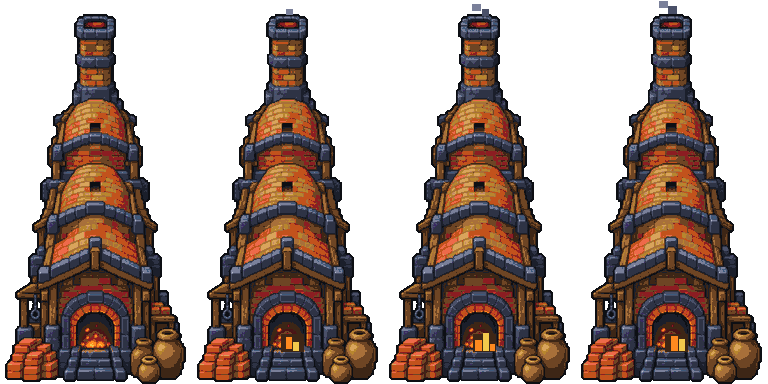
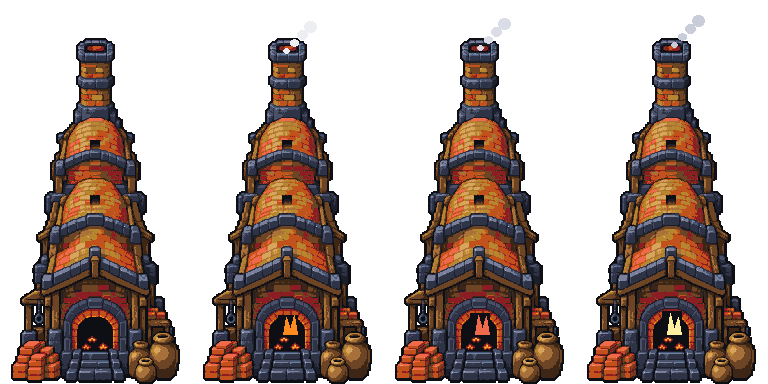
Art review: 64 px batch 1 (Buildings-64-002) in game - Workbench, Kiln, Paper Mill statics accepted, Sky-Bridge Shrine @64 validated (waits on Phase 2); Paper Mill loop + Shrine glow rejected, Kiln + Workbench loops repair (interim); Paper Mill pilot pair re-pinned; ART-SPEC 3.9.6 batch 1R (loops on

diff --git a/docs/art/ART-SPEC.md b/docs/art/ART-SPEC.md
@@ -1,4 +1,4 @@
-# Idle Grounds — Art Request / Art Bible (v6 — 64 px per cell for standing objects, pilot signed off 2026-10-24, rollout batch 1 requested, see §3.9.6; v5 — snowy Fishing, see §3.8; v4 — island requesters, Sky-Bridge Shrine, 4 new islands, see §3.7)
+# Idle Grounds — Art Request / Art Bible (v6 — 64 px per cell for standing objects, pilot signed off 2026-10-24, rollout batch 1 reviewed 2026-10-25, batch 1R (4 loops) requested, see §3.9.6; v5 — snowy Fishing, see §3.8; v4 — island requesters, Sky-Bridge Shrine, 4 new islands, see §3.7)
 
 Self-contained brief for the artist (human or AI image tool). Everything needed to produce, name, size and deliver the art is in this file. No other document is required.
 
@@ -654,22 +654,33 @@ Everything in §1 still applies (front 3/4 view, light from the upper left, colo
 | `bld_workbench@64.png` | 192×256 | 1 | in game as interim; redo in batch 1 (projection) |
 | `bld_workbench_working_192x256_4f@64.png` | 768×256 strip | 4 | interim; redo in batch 1 from the repaired static |
 
-**Batch 1 (P1, requested 2026-10-24): pilot repairs + B1 Sky-Bridge Shrine.** Category `buildings`, **one zip `incoming/buildings/Idle-Grounds-Buildings-64-002.zip`** with a short `NOTES.txt` and `SHA256SUMS`. All files at 64 (§3.9.3–3.9.5): exact canvases, palette P01–P40, binary alpha (4 alpha steps only for smoke, glow and qi cloud), 2-px outer outline, base on the bottom row, no baked shadow, loop frame 0 = the static pixel for pixel, new drawings (no 2× upscales). Evidence for the repairs: Drive `feedback/2026-10-22_pilot64_review.png`.
+**Batch 1 (P1, requested 2026-10-24, delivered as `Idle-Grounds-Buildings-64-002.zip`, reviewed in game 2026-10-25: statics accepted, loops in batch 1R below): pilot repairs + B1 Sky-Bridge Shrine.** Category `buildings`, **one zip `incoming/buildings/Idle-Grounds-Buildings-64-002.zip`** with a short `NOTES.txt` and `SHA256SUMS`. All files at 64 (§3.9.3–3.9.5): exact canvases, palette P01–P40, binary alpha (4 alpha steps only for smoke, glow and qi cloud), 2-px outer outline, base on the bottom row, no baked shadow, loop frame 0 = the static pixel for pixel, new drawings (no 2× upscales). Evidence for the repairs: Drive `feedback/2026-10-22_pilot64_review.png`.
 
 | File | Canvas | Frames | What to draw | Pri | Status |
 |---|---|---|---|---|---|
-| `bld_workbench@64.png` | 192×256 | 1 | **Repair (projection).** Observed: still turned ~13°: front-left foot ends at y=228, front-right foot at y=255; roof ridge at y=30 (x=50) vs y=62 (x=150); the right side face shows. Expected: **straight front** like `bld_paper_mill@64.png`: the four post feet and the bench base all on the bottom row (y=255), roof ridge level, no side face. Keep the red cloth awning (P18 with P17 folds), the bamboo posts, the saw, plane and plank stack. | P1 | requested |
-| `bld_workbench_working_192x256_4f@64.png` | 768×256 strip | 4 | **Redraw from the repaired static** (frame 0 = the new `bld_workbench@64.png` pixel for pixel). Frames 1–3: the saw moves along the plank, wood chips pop (2×2 clusters); nothing else changes. | P1 | requested |
-| `bld_kiln@64.png` | 192×384 | 1 | **Tweak (idle mouth).** Observed: the idle mouth shows a full fire (485 fire-colour px in the mouth). Expected: the idle mouth is **dark** (P01/P02 inside) with **3–6 small ember clusters** (2×2 or 2×3 px, P30 / P33). Everything else stays as accepted. | P1 | requested |
-| `bld_kiln_working_192x384_4f@64.png` | 768×384 strip | 4 | **Redo (smoke).** Frame 0 = the new idle `bld_kiln@64.png` pixel for pixel. Frames 1–3: the mouth fire flickers (P30 / P33 / P19 / P25), and a **rising smoke plume of 3–4 puffs** leaves the chimney inside the **top 64 px**: puffs grow and drift up (a little to the right) as they rise, using the **4 alpha steps** of §2.1 (most opaque at the chimney, faintest at the top). Observed before: the smoke was only a 42–135 px opaque blip on the chimney top. | P1 | requested |
-| `bld_paper_mill@64.png` | 192×256 | 1 | **Tweak (base).** Observed: 90 of 391 px in the bottom 4 rows are grass/fern (P13/P14). Expected: the bottom rows are the building's **own stone and wood** (plinth, posts, wheel trough), no grass and no painted shadow (§3.9.5 rule 7). Everything else stays as accepted. | P1 | requested |
-| `bld_paper_mill_working_192x256_4f@64.png` | 768×256 strip | 4 | **Redo (fuller loop).** Frame 0 = the new `bld_paper_mill@64.png` pixel for pixel. Observed before: only the wheel hub (x12–40) and the press screw changed. Expected in frames 1–3: **the whole water wheel turns** (spokes and paddles step round, the rim stays round), **the falling water moves** (spill lines and splash shift down each frame), the press descends, and **a paper sheet appears** on the drying rack (P40 / P07). The hut, rack and bamboo do not change. | P1 | requested |
-| `bld_sky_shrine@64.png` | 320×384 | 1 | **B1 Sky-Bridge Shrine at 64.** Keep the design of the validated 32 file `bld_sky_shrine.png` (2026-10-21): raised white-jade terrace with stairs facing south toward the viewer, round carved-jade moon-gate framed by cinnabar pillars and gold-trimmed double eaves, a slow swirl of pale qi cloud inside the gate, two stone lantern posts; 5×5 footprint (320×320) plus up to 64 px overhang above. Fix from the 32 file: it had **5 empty rows under the stairs**; at 64 the lowest stair step and the terrace base sit **on the bottom row (y=383)**, no empty rows. Front 3/4, no corner view; fill at least ~85 % of the width. Static = idle (qi swirl calm, lanterns unlit or softly lit). | P1 | requested |
-| `bld_sky_shrine_glow_320x384_4f@64.png` | 1280×384 strip | 4 | **Tribute being paid / ready.** Frame 0 = `bld_sky_shrine@64.png` pixel for pixel. Frames 1–3: the moon-gate swirl brightens cyan-gold (4 alpha steps for the qi cloud), the lantern flames flicker, the carved grooves pulse gold; terrace, pillars and roofs do not change. | P1 | requested |
+| `bld_workbench@64.png` | 192×256 | 1 | **Repair (projection).** Observed: still turned ~13°: front-left foot ends at y=228, front-right foot at y=255; roof ridge at y=30 (x=50) vs y=62 (x=150); the right side face shows. Expected: **straight front** like `bld_paper_mill@64.png`: the four post feet and the bench base all on the bottom row (y=255), roof ridge level, no side face. Keep the red cloth awning (P18 with P17 folds), the bamboo posts, the saw, plane and plank stack. | P1 | **accepted in game 2026-10-25** (straight front; Buildings-64-002) |
+| `bld_workbench_working_192x256_4f@64.png` | 768×256 strip | 4 | **Redraw from the repaired static** (frame 0 = the new `bld_workbench@64.png` pixel for pixel). Frames 1–3: the saw moves along the plank, wood chips pop (2×2 clusters); nothing else changes. | P1 | **repair** (2026-10-25: the saw does not move; interim in game; batch 1R below) |
+| `bld_kiln@64.png` | 192×384 | 1 | **Tweak (idle mouth).** Observed: the idle mouth shows a full fire (485 fire-colour px in the mouth). Expected: the idle mouth is **dark** (P01/P02 inside) with **3–6 small ember clusters** (2×2 or 2×3 px, P30 / P33). Everything else stays as accepted. | P1 | **accepted in game 2026-10-25** (dark mouth, 3 ember clusters; Buildings-64-002) |
+| `bld_kiln_working_192x384_4f@64.png` | 768×384 strip | 4 | **Redo (smoke).** Frame 0 = the new idle `bld_kiln@64.png` pixel for pixel. Frames 1–3: the mouth fire flickers (P30 / P33 / P19 / P25), and a **rising smoke plume of 3–4 puffs** leaves the chimney inside the **top 64 px**: puffs grow and drift up (a little to the right) as they rise, using the **4 alpha steps** of §2.1 (most opaque at the chimney, faintest at the top). Observed before: the smoke was only a 42–135 px opaque blip on the chimney top. | P1 | **repair** (2026-10-25: flat flame block, tiny smoke; interim in game; batch 1R below) |
+| `bld_paper_mill@64.png` | 192×256 | 1 | **Tweak (base).** Observed: 90 of 391 px in the bottom 4 rows are grass/fern (P13/P14). Expected: the bottom rows are the building's **own stone and wood** (plinth, posts, wheel trough), no grass and no painted shadow (§3.9.5 rule 7). Everything else stays as accepted. | P1 | **accepted in game 2026-10-25** (stone base, no grass); goes into the game together with its repaired loop (pilot pair stays pinned until then) |
+| `bld_paper_mill_working_192x256_4f@64.png` | 768×256 strip | 4 | **Redo (fuller loop).** Frame 0 = the new `bld_paper_mill@64.png` pixel for pixel. Observed before: only the wheel hub (x12–40) and the press screw changed. Expected in frames 1–3: **the whole water wheel turns** (spokes and paddles step round, the rim stays round), **the falling water moves** (spill lines and splash shift down each frame), the press descends, and **a paper sheet appears** on the drying rack (P40 / P07). The hut, rack and bamboo do not change. | P1 | **rejected** 2026-10-25 (rotated block pasted over the hut; batch 1R below) |
+| `bld_sky_shrine@64.png` | 320×384 | 1 | **B1 Sky-Bridge Shrine at 64.** Keep the design of the validated 32 file `bld_sky_shrine.png` (2026-10-21): raised white-jade terrace with stairs facing south toward the viewer, round carved-jade moon-gate framed by cinnabar pillars and gold-trimmed double eaves, a slow swirl of pale qi cloud inside the gate, two stone lantern posts; 5×5 footprint (320×320) plus up to 64 px overhang above. Fix from the 32 file: it had **5 empty rows under the stairs**; at 64 the lowest stair step and the terrace base sit **on the bottom row (y=383)**, no empty rows. Front 3/4, no corner view; fill at least ~85 % of the width. Static = idle (qi swirl calm, lanterns unlit or softly lit). | P1 | **validated 2026-10-25** (file + test placement in game); in-game check waits on ADR 0007 Phase 2 |
+| `bld_sky_shrine_glow_320x384_4f@64.png` | 1280×384 strip | 4 | **Tribute being paid / ready.** Frame 0 = `bld_sky_shrine@64.png` pixel for pixel. Frames 1–3: the moon-gate swirl brightens cyan-gold (4 alpha steps for the qi cloud), the lantern flames flicker, the carved grooves pulse gold; terrace, pillars and roofs do not change. | P1 | **rejected** 2026-10-25 (ring on the roof, line on the stairs; batch 1R below) |
 
 **Our check on delivery (in-game art reviewer):** file checks (canvas, palette, alpha, frame 0 = static, not an upscale, noise at or under ~10 %), then in game beside 32-px buildings at every zoom step (15 / 20 / 30 / 60 / 120 cells), loops at 8 fps. The Shrine is checked on the north edge of the Center once its gameplay exists (ADR 0007 Phase 2); until then on a test placement.
 
-**Batch 2 — E: the 7 P1 Requester NPC idle strips (next; requested after batch 1 is accepted, please do not start yet).** Category `creatures`, one zip `incoming/creatures/Idle-Grounds-Creatures-64-001.zip`. Canvas 64×96 per frame (strip 256×96), 4 frames at 6 fps, bottom-centre pivot, 3/4 front facing the viewer, 2-px P01/P02 outer outline, 1-px inner lines, eyes at least 2×2 px, skin P35 / P36. The 2026-10-21 repair notes apply: **feet fixed on the bottom row (y=95) in every frame**; the idle is **not** the whole sprite moving up and down: **animate only the named part** (§3.7), everything else stays pixel for pixel. Portraits stay 64×64 UI art (their repairs continue separately).
+**Batch 1R (P1, requested 2026-10-25): the four loops of batch 1 again.** Reviewed in game 2026-10-25 (Delivery log): the four statics are good, the four loops are not. Category `buildings`, **one zip `incoming/buildings/Idle-Grounds-Buildings-64-003.zip`** with `NOTES.txt` and `SHA256SUMS`, **only these 4 loops** (do not redraw or resend the statics: we keep the statics of `Idle-Grounds-Buildings-64-002.zip`). Frame 0 of each loop = its 64-002 static pixel for pixel (SHA-256 of the static given per row). Frames 1–3 change **only the named moving parts**, redrawn on the pixel grid (no rotated or pasted image blocks), read-at-a-glance motion in **2×2 clusters or larger** (1-px lines vanish at the 60-cell zoom), loop closes from frame 3 back to frame 0. Evidence: Drive `feedback/2026-10-25_buildings64_002_loops_REJECTED_frames.png` (frames, enlarged) and `feedback/2026-10-25_buildings64_002_review.png` (in game).
+
+| File | Canvas | Frames | Observed in 64-002 → what to draw | Pri | Status |
+|---|---|---|---|---|---|
+| `bld_paper_mill_working_192x256_4f@64.png` | 768×256 strip | 4 | Frame 0 = `bld_paper_mill@64.png` of 64-002 (SHA-256 `21130be9…f0bccb010`). **Observed:** frames 1–3 change 4,233 / 5,372 / 4,228 px inside x13–149, y92–221: a hard-edged rectangle holding a **rotated copy of the roof thatch, wheel, bamboo leaves and water is pasted over the left half of the hut** (frame 2: a square block at about x0–68, y92–152 on top of the roof), plus a dotted cyan vertical line through the press. **Expected:** hut, roof, bamboo, rack and stone base identical to frame 0 in every frame. Only these move: (a) the **water wheel turns in place**: spokes and paddles redrawn at 3 more rotation steps (for an 8-spoke wheel 0°, 11°, 22°, 33°, so frame 3 → 0 continues the turn), the rim stays round and in the same place; (b) the **falling water**: spill lines and the splash at the bottom shift down about 4 px per frame (wrapping); (c) the **press block** moves down 2–4 px in frames 1–2 and back up in frame 3; (d) a **paper sheet** (P40 / P07, at least 4×6 px) appears on the drying rack in frames 2–3. | P1 | requested |
+| `bld_kiln_working_192x384_4f@64.png` | 768×384 strip | 4 | Frame 0 = `bld_kiln@64.png` of 64-002 (SHA-256 `2a45e30d…1c6be6617`). **Observed:** the fire is **one flat single-colour shape** (170–191 px) with the same silhouette in frames 1–3, only recoloured P30 → P19 → P25, with a flat-cut top floating above the embers; the smoke is 3 flat P06 discs (296 semi-transparent px per frame at alpha 64 / 128 / 192, y15–49): in game at the 30-cell zoom it reads as two grey dots. **Expected:** (a) **flames rise from the ember bed**: 3–5 tongues whose tips move 2–4 px up and down and sway 1–2 px left/right every frame, layered core P25 / P24 → mid P30 / P33 → edge P19 / P17; the 3 ember clusters brighten with the flames; arch, bricks and steps unchanged; (b) **smoke plume**: 3–4 puffs that **grow** as they rise (about 6×6 → 10×10 → 14×12 → 18×14 px) and move up 6–10 px and 2–4 px right per frame, so the top puff leaves the canvas while a new one forms on the chimney; alpha 75 % near the chimney → 50 % → 25 % at the top (§2.1 steps 191 / 128 / 64), lumpy cloud outline (not perfect circles), all inside the top 64 px. | P1 | requested |
+| `bld_workbench_working_192x256_4f@64.png` | 768×256 strip | 4 | Frame 0 = `bld_workbench@64.png` of 64-002 (SHA-256 `2ecac09f…b75fde9720`). **Observed:** frames change only 49–52 px, all in x74–123, y170–180: a **1-px white stepped line** on the back plank that moves 4 px right; the **saw never moves**; no wood chips. **Expected:** the saw slides along the plank, 6–8 px per frame (rest → forward → back → forward-short), a small cut notch shows in the plank, and 2–4 **wood chips (2×2 px, P23 / P40)** pop up and fall near the cut; everything else unchanged. | P1 | requested |
+| `bld_sky_shrine_glow_320x384_4f@64.png` | 1280×384 strip | 4 | Frame 0 = `bld_sky_shrine@64.png` of 64-002 (SHA-256 `c29bb8dd…bdeaf60e`). **Observed:** frames 1–3 add a **semi-transparent ring about 70×80 px on rows 132–210 that sits over the lower roof eave and the top of the gate, not inside the moon-gate**; a **2-px gold line across the stairs** between the lanterns (rows 294–295, 115 px each); two 2×4 orange blocks on balustrade posts as flames. Its alpha steps are 80 / 150 / 220, not the §2.1 steps 64 / 128 / 191. **Expected:** (a) **inside the moon-gate opening only**, the existing qi swirl brightens from cyan to gold over frames 1–3 (alpha 64 / 128 / 191 / 255 for the cloud); (b) the **two stone lanterns at the foot of the stairs** light up: flames 2×2 to 4×4 px flickering P24 / P25 / P30; (c) the carved grooves on the gate ring pulse gold (P24 / P34). Nothing is drawn over roofs, pillars, balustrades or stairs. | P1 | requested |
+
+Non-blocking notes on the accepted statics (no action now; fix at the next pass of these keys): `bld_kiln@64.png` touches the bottom row only at x139–152 (the rest of the base ends on y380–382; same as the pilot); `bld_workbench@64.png` posts end on y255 but the bench body on y253; `bld_sky_shrine@64.png` 1-px noise 12.7 % (target about 10 %).
+
+**Batch 2 — E: the 7 P1 Requester NPC idle strips (next; requested after batch 1R is accepted, please do not start yet).** Category `creatures`, one zip `incoming/creatures/Idle-Grounds-Creatures-64-001.zip`. Canvas 64×96 per frame (strip 256×96), 4 frames at 6 fps, bottom-centre pivot, 3/4 front facing the viewer, 2-px P01/P02 outer outline, 1-px inner lines, eyes at least 2×2 px, skin P35 / P36. The 2026-10-21 repair notes apply: **feet fixed on the bottom row (y=95) in every frame**; the idle is **not** the whole sprite moving up and down: **animate only the named part** (§3.7), everything else stays pixel for pixel. Portraits stay 64×64 UI art (their repairs continue separately).
 
 | File | Canvas | Frames | What to draw / animate | Pri | Status |
 |---|---|---|---|---|---|
@@ -1236,6 +1247,7 @@ Review process: files in `incoming` are imported into Unity, checked in-game, an
 | v5 — snowy Fishing | 2026-10-21 | New §3.8 (owner pick `vp_fishing`): Fishing becomes a snowy northern Island on purpose. Snow ground fill, macro, decor, blob, curved and straight south walls with icicles, side walls, snow cornice lip and edge profile; cold open water with an ice shelf along the pond shore, floes and an ice-fishing hole; snowy trees, snow props, a warm spring in the snow, an icicle underside and a snowfall overlay. Fishing palette in §1.3 changed to snow + ice + water; the old Fishing ground/water rows of §3.1 are superseded. |
 | v6 — 64 px standing objects | 2026-10-22 | §3.9 finalised for owner pick `art_density` = obj64: buildings, nodes, fixtures, trees, standing props, NPCs and creatures are drawn at **64 px per cell** on doubled canvases (§3.9.3), tagged `@64` and imported at PPU 64 (same world size); ground, coast, sky, items, icons, UI and FX stay 32. New rules at 64: 2-px outer outline, 2×2 clusters for read-at-a-glance detail, no 1-px checker dither, loops never redraw the static frame, no baked contact shadow; palette extension P33–P40 for 64 art. Building audit of 2026-10-21 kept (8 REF, 10 CLEAN, 8 REDRAW). **Request A (pilot, P1):** Paper Mill, Kiln, Workbench + working loops at 64. Every other standing-object request (incl. the open 32-px repairs of NPC idles, 4 buildings and 19 loops) is **on hold** until the owner signs the pilot off; then B buildings, C nodes + fixtures, D trees + props, E NPCs, F creatures. Zoom-step table for 64 art measured in game (§3.9.7). |
 | v6.1 — 64 px rollout | 2026-10-24 | Owner signed off the 64 px pilot (`pilot64_signoff` = rollout). §3.9.6 rewritten: the hold on standing objects is lifted; pilot A marked done. **Batch 1 requested (P1, one zip `Idle-Grounds-Buildings-64-002.zip`):** the pilot repairs exactly as logged 2026-10-22 (Workbench straight-front projection + loop redrawn from the repaired still; Kiln idle mouth dark with 3–6 ember clusters + rising 3–4 puff plume in 4 alpha steps in the top 64 px; Paper Mill bottom rows own stone/wood + loop turning the whole wheel, moving falling water, a paper sheet appearing) and B1 `bld_sky_shrine@64.png` 320×384 + `bld_sky_shrine_glow_320x384_4f@64.png` (validated 32 design kept; base on the bottom row, no empty rows). **Batch 2 (next, after batch 1 is accepted):** E, the 7 P1 Requester NPC idle strips `npc_<id>_idle_64x96_4f@64.png` with the 2026-10-21 repair notes (feet on the bottom row, animate only the named part, Jiang redrawn), then He, Lei, Yao, Mo. Later: B2, B3, B4, C, D, F. |
+| v6.2 — batch 1 review | 2026-10-25 | Rollout batch 1 (`Idle-Grounds-Buildings-64-002.zip`) reviewed in game: Workbench, Kiln and Paper Mill statics accepted, Sky-Bridge Shrine static validated (in-game check waits on ADR 0007 Phase 2); the 4 loops need a redo. **Batch 1R requested (P1, `Idle-Grounds-Buildings-64-003.zip`, loops only):** Paper Mill wheel/water/press/sheet loop without pasted blocks, Kiln layered flame tongues + growing smoke puffs, Workbench moving saw + 2×2 chips, Shrine glow inside the moon-gate + lantern flames. Batch 2 (7 P1 NPC idles at 64) follows when 1R is accepted. |
 | v2 — irregular islands | 2026-10-04 | New §3.0: islands are hand-painted irregular shapes (never squares); the coast is a visual margin 8–30 cells (bold lobes, bays, islets) around the square 93×93 playable area. Ground tilesets become 47-tile blob sets per biome (`island_<biome>_ground_blob_32x32_47f.png`; the 19-tile strip stays as a minimum); cliff rim must cover diagonals, corners and end caps; underside decorations must combine under any coastline. |
 
 ### Delivery log
@@ -1300,4 +1312,5 @@ Intake: `node tools/art-intake/pull.js` (Drive `incoming/<category>/` -> `Assets
 | 2026-10-21 | §3.7 set + coast repairs: Islands-038 (sidewall v3 ×7), -039 (Fishing macro v4), -040 (`cliffwall_round` ×7), -041…050 (Lotus / Thunder / Ravine / Tribulation tilesets, decor, overlays); Buildings-013 (Shrine + glow), -014…019 (19 static), -020…024 (19 working loops); Creatures-006…009 (11 NPC idles, Azure Wolf, pen beast); UI-021…024; Items-009; Nodes-007 (1); Fixtures-005; FX-005/006 | `incoming/*/…` (37 zips, 165 art files) | **All 37 zips inspected** (PNG RGBA, sizes, frame counts, 100 % palette, alpha checked by script; contact sheets reviewed). Buildings-018 correctly replaces the wrong-size `bld_lightning_rod` / `bld_thunder_forge` of -017. Pulled and integrated in the background copy (Integrate Incoming Art: 0 changes on re-run). The `SOURCE-STUDY-*.png` files in Islands-042 (9 MB) are not game art; we skip them, please leave them out of future zips. Evidence: Drive `feedback/2026-10-21_*.png`. <br>**ACCEPTED in Play:** <br>• **Islands-038 `island_<biome>_sidewall` + `_variants` ×7 (v3):** the 18 px face now shows in game as a lit rock side on the W/E coasts (we widened the game's side face from 11 to 18 px to use it). `feedback/2026-10-21_sidewall_v3_ACCEPTED_ingame.png`. Optional polish later: the face is 4 flat vertical colour bands with short horizontal dashes; a little rock texture would help. <br>• **Islands-039 `island_fishing_macro` v4:** P05 / P07 patches in the right cool family; softened 40 % toward the fill in game like the other biomes, no visible repetition at far zoom. `feedback/2026-10-21_fishing_macro_v4_ACCEPTED_ingame.png`. (Fishing becomes snowy in §3.8, which replaces this file later.) <br>**REJECTED in Play: Islands-040 `island_<biome>_cliffwall_round_32x96_4f` ×7.** In game the curved south walls turn into flat horizontal colour stripes (1–3 px bands across the whole frame), with no rock form, no top-left light, no roots and a straight ruler-flat bottom edge; it is a clear step back from the pinned straight wall frames, so those stay. Fishing has a saturated P27 band, Celestial is flat white/violet bands. `feedback/2026-10-21_cliffwall_round_REJECTED_ingame.png`, `…_ingame_close.png`, `…_frames.png`. **Repair:** paint each frame like `island_<biome>_cliffwall_32x96_8f` frames 0–2 (stratified rock blocks lit from the top-left, darker vertical faces, roots and moss, ragged broken bottom fading over 16 px in 4 alpha steps), but keep the strata **horizontal and continuous across the frame edges** so any order tiles, and keep big vertical features (cracks, waterfalls) out. Strata bands must be at least 4–6 px tall with texture inside them, not 1-px lines. <br>**REJECTED on file review (not usable yet; the game has no Shrine / NPC / new Island code, so in-game checks wait for ADR 0007 Phase 2):** <br>• **FX-005 `fx_sky_path_h/v/corner/end`:** each piece is a flat 3-colour cyan capsule outline at 66 % alpha: no jade slabs, no gold rail posts, no shadow on the clouds. The h/v pieces have **rounded end caps on every 64 px segment**, so a path of several segments pinches at each joint (not seamless). `feedback/2026-10-21_sky_path_REJECTED_frames.png`. **Repair:** match `fx_sky_path_raise` (FX-006, which looks right): opaque jade slabs (P09/P10/P11/P12) with cyan glowing seams, small gold posts, a thin shadow below; straight cuts at both ends of h/v so they tile; the ripple loop must not move the slabs. <br>• **Creatures-006/007 `npc_<id>_idle_32x48_4f` ×11:** the idle is the **whole sprite shifted up and down by 1 px** (same pixel count every frame; nothing moves: no abacus beads, fishing line, hammer glow, lotus); in frames 0 and 3 the feet leave the bottom edge (lowest row 46 / 45 instead of 47). No 1 px ink outline. **Jiang, Lei, Mo and Yao** read as noise (scattered single pixels, no face, no clear silhouette): `feedback/2026-10-21_npc_lei_mo_REJECTED_zoom.png`. **Repair:** keep the designs of Lin, Kang, Tian, Qingyun, Ouyang, Xuan and He; redraw Jiang (straw hat + grass cape + rod clearly readable), Lei, Mo and Yao as clean pixel art. For all 11: 1 px P01 ink outline, feet fixed on row 47 in every frame, and animate only the named part (2–6 px change per frame) as listed in §3.7. <br>• **UI-023 portraits:** Lin, Jiang, Kang and Tian are small busts in the bottom half (head top at row 30–38, 16–20 % of the canvas); Mo and Yao are noisy like their sprites. **Repair:** all 11 framed the same way: head top at rows 4–8, shoulders reaching the bottom edge, face about 24–28 px wide, clean outline. He, Lei, Ouyang, Qingyun and Xuan are kept. `feedback/2026-10-21_npc_portraits_REVIEW.png`. <br>• **Buildings-020…024 working loops ×19:** every frame is a **different redraw of the whole building** (4,000–9,700 px change per frame; the bridge, rocks and roofs change shape), so it would boil in game. Our accepted loops change 16–25 px per frame. `feedback/2026-10-21_bld_working_REJECTED_boiling.png`. **Repair:** frame 0 = the accepted static sprite pixel for pixel; frames 1–3 change only the moving parts (koi, steam, sparks, glow). <br>• **Static buildings `bld_beast_pen`, `bld_tribulation_array`, `bld_immortal_furnace`, `bld_thunder_forge`:** drawn as **floating mini-islands** (rock underside, waterfalls, clouds and banners hanging below the footprint); `beast_pen` and `tribulation_array` are also in isometric (diamond) view. On an Island they would sit on the grass as a second floating island. `feedback/2026-10-21_bld_floating_base_REJECTED.png`. **Repair:** 3/4 front view like the other buildings, base flat on the ground at the bottom edge of the canvas, no rock underside, no clouds. <br>• **New biome tilesets (Islands-041…048), `lotus`/`thunder`/`ravine`/`tribulation`:** <br>  – `*_ground_blob_32x32_47f` ×4: every frame is a **full opaque square with a border frame**; they ignore the §3.0 blob silhouettes (transparent cut-outs, rounded corners) of the Center set. `feedback/2026-10-21_newbiome_blob_REJECTED_vs_center.png`. **Repair:** same silhouettes as `island_center_ground_blob` (use `blob_mask_reference.json`), only the colours change. <br>  – `*_ground_fill_32x32_3f` ×4 and `island_lotus_water_32x32_4f`: tiled 4×3 they show a **strong 32 px grid** and are very busy (Lotus: 4 hues in large blotches; Ravine: diagonal stripes; Tribulation frame 1 has black vertical bars and **frame 2 is entirely P01 black**; water frame 0 shows a checkerboard). `feedback/2026-10-21_newbiome_fill_water_REJECTED_tiled.png`. **Repair:** Center v2.1 recipe: one base colour, ≤ 8 % sparse detail, nothing aligned to the tile edge; check 4×4 tiled at 2× before delivery. <br>  – `*_cliffwall_32x96_8f` ×4: a flat brick grid with straight 1 px drip lines, all 8 frames nearly identical, flat top band, no ragged bottom or fade; far below the accepted cliff walls. `feedback/2026-10-21_newbiome_cliffwall_REJECTED.png`. **Repair:** paint like `island_center_cliffwall_32x96_8f` (v2) in the biome palette, §3.6 frame order. <br>  – `*_sidewall_32x32_4f` + `*_sidewall_variants_32x32_8f` ×4: same flat brick style. **Repair:** as Islands-038 (18 px face, grass column at the island side, outer edge cut diagonally on the end frames). <br>  – `*_macro_96x96_4f` ×4: these are **raised objects** (rock mounds, bone pits, fenced isometric platforms) instead of flat ground patches; Lotus frames are cut off by the canvas edge. **Repair:** flat organic decals ±1 palette step from the fill, dithered edges, nothing raised, nothing touching the canvas edge. `feedback/2026-10-21_newbiome_macro_sidewall_REVIEW.png`. <br>**Validated (files OK), imported, waiting on game code (ADR 0007 Phase 2):** `bld_sky_shrine` + `_glow` (fine; 5 empty rows under the stairs, we trim in code), `ui_request_marker`, `ui_request`, `ui_request_done`, `ui_utility`, `ui_shrine`, `ui_area/action_<lotus|thunder|ravine|tribulation>` ×8, portraits of He, Lei, Ouyang, Qingyun, Xuan, 15 static buildings (bamboo nursery, spirit snare, deep shaft, blast forge, koi pond, spirit paddy, elixir still, essence well, fire vent, star well, lotus pond, reed press, lotus distillery, lightning rod, soul refinery), `fix_peachtree`, 9 nodes (`node_lotuspad` pops from full bloom back to a bud at the loop seam; fine if intended as surfacing), 12 items, `enemy_wolf_idle/move/hit/die`, `npc_pen_beast_idle`, `fx_sky_path_raise`, flowers / scatter / spark / glowvine / runes for the 4 new biomes. None of these is in the game yet, so none is accepted yet. | Islands-038, -039 **accepted**; Islands-040 **rejected**; 76 files **rejected** (7 round walls + 69 listed above); 74 files **validated, waiting on Phase 2** |
 | 2026-10-22 | **NEW P1 — 64 px pilot (§3.9, owner pick `art_density` = obj64)** | — | **Requested:** `bld_paper_mill@64.png` (192×256), `bld_kiln@64.png` (192×384), `bld_workbench@64.png` (192×256) and their `_working_<W>x<H>_4f@64.png` loops, one zip `incoming/buildings/Idle-Grounds-Buildings-64-001.zip`. Read §3.9.3–3.9.6 first (sizes, `@64` names, 2-px outline, 2×2 clusters, palette P33–P40, no upscales). The game already imports `@64` files at PPU 64 and draws them at the right size (tested with a stand-in). **On hold until the owner signs the pilot off:** all other standing-object work, including the 2026-10-21 repairs of the NPC idle strips, the 4 floating-base buildings and the 19 working loops (they will be drawn at 64; the repair notes still apply). Portrait repairs and all 32-px work (tiles, coast, items, UI, FX) continue. | requested |
 | 2026-10-22 | **64 px pilot reviewed in game:** `bld_paper_mill@64.png`, `bld_paper_mill_working_192x256_4f@64.png`, `bld_kiln@64.png`, `bld_kiln_working_192x384_4f@64.png`, `bld_workbench@64.png`, `bld_workbench_working_192x256_4f@64.png` | `incoming/buildings/Idle-Grounds-Buildings-64-001.zip` (SHA256SUMS verified) | **All 6 delivered, validated, integrated** (PPU 64 by the `@64` tag; `Integrate Incoming Art` 6 changes, re-run 0 changes; none of the 6 keys unwired). **File checks (all 6 pass):** exact canvases (192×256, 192×384, strips 768×256 / 768×384), 100 % P01–P40, alpha 0/255 only, loop frame 0 = static pixel for pixel, new drawings (not 2× upscales: uniform 2×2 blocks 26–35 %, identical to a 2× of the 32 file only 6–26 %). Noise (isolated interior px): Paper Mill 11.5 %, Kiln 5.8 %, Workbench 9.0 % (32 files: 13.8 / 16.4 / 13.9). Dark 2-px outer edge: Kiln 99.9 %, Paper Mill 67 %, Workbench 62 % of edge pixels. Loop change per frame vs static: Paper Mill 354–424 px, Kiln 398–491 px, Workbench 545 px (small, no boiling). **In game** (Center, beside 32-px Storehouse, Forge, Loom, Mill; zoom 15 / 20 / 30 / 60 / 120 cells; working loops at 8 fps): same world size and footprint as the 32 art, outline holds at 60 cells, no density switch when working. **Verdicts:** `bld_paper_mill@64.png` **accepted** (the projection reference at 64). `bld_kiln@64.png` **accepted with a tweak**. `bld_workbench@64.png` **repair (projection)**: kept in game as an interim because it is better than the 32-px corner view. Loops: Workbench OK, Paper Mill and Kiln need repairs. **Repairs (do not start before the owner signs the pilot off; Hub question `pilot64_signoff`):** (1) `bld_workbench@64.png`: still turned ~13° — front-left foot ends at y=228, front-right foot at y=255, roof ridge y=30 at x=50 vs y=62 at x=150, right side face visible. Expected: straight front like `bld_paper_mill@64.png` — the four post feet and the base on the bottom row (y=255), ridge level, no side face; keep the red awning, bamboo posts, saw/plane/plank stack; then redraw `bld_workbench_working_192x256_4f@64.png` from the new static (frame 0 = static). (2) `bld_kiln@64.png`: the idle mouth shows a full fire (485 fire-colour px in the mouth); idle = dark mouth with 3–6 small ember clusters; the fire only in the working loop. `bld_kiln_working_192x384_4f@64.png`: the smoke is only a 42–135 px opaque blip on the chimney top; draw a rising plume of 3–4 puffs in the top 64 px using the 4 alpha steps of §2.1 (frame 0 still = the static). (3) `bld_paper_mill@64.png`: 90 of 391 px in the bottom 4 rows are grass/fern (P13/P14); the base rows must be the building's own stone/wood (§3.9.5 rule 7). `bld_paper_mill_working_192x256_4f@64.png`: only the wheel hub (x12–40) and the press screw change; turn the whole wheel (spokes and paddles), move the falling water, and let a paper sheet appear on the rack, as §3.9.6 asks. Evidence: Drive `feedback/2026-10-22_pilot64_review.png`. | validated, integrated; Paper Mill + Kiln static accepted in game; Workbench static + 2 loops repair requested; owner signed off 2026-10-24, repairs in batch 1 (row below) |
-| 2026-10-24 | **Owner signed off the 64 px pilot (`pilot64_signoff` = rollout); NEW P1 — rollout batch 1 (§3.9.6)** | — | **Requested:** one zip `incoming/buildings/Idle-Grounds-Buildings-64-002.zip` (+ `NOTES.txt`, `SHA256SUMS`) with 8 files: the pilot repairs exactly as logged 2026-10-22 — `bld_workbench@64.png` (192×256, straight front: four feet and base on y=255, ridge level, no side face) + `bld_workbench_working_192x256_4f@64.png` (redrawn from the repaired static); `bld_kiln@64.png` (192×384, idle mouth dark with 3–6 ember clusters) + `bld_kiln_working_192x384_4f@64.png` (fire flicker + rising plume of 3–4 puffs in the top 64 px, 4 alpha steps); `bld_paper_mill@64.png` (192×256, bottom rows own stone/wood, no grass) + `bld_paper_mill_working_192x256_4f@64.png` (whole wheel turns, falling water moves, press descends, a paper sheet appears) — and B1 Sky-Bridge Shrine `bld_sky_shrine@64.png` (320×384, keep the validated 32 design; stairs and base on the bottom row, no empty rows) + `bld_sky_shrine_glow_320x384_4f@64.png` (1280×384 strip). Frame 0 of every loop = its static pixel for pixel. **Next (do not start yet):** batch 2 = the 7 P1 Requester NPC idle strips at 64 (`npc_<id>_idle_64x96_4f@64.png`, 2026-10-21 repair notes apply), requested after batch 1 is accepted; then B2–B4, C, D, F. The hold on standing objects is lifted; 32-px work continues. | requested |
+| 2026-10-24 | **Owner signed off the 64 px pilot (`pilot64_signoff` = rollout); NEW P1 — rollout batch 1 (§3.9.6)** | — | **Requested:** one zip `incoming/buildings/Idle-Grounds-Buildings-64-002.zip` (+ `NOTES.txt`, `SHA256SUMS`) with 8 files: the pilot repairs exactly as logged 2026-10-22 — `bld_workbench@64.png` (192×256, straight front: four feet and base on y=255, ridge level, no side face) + `bld_workbench_working_192x256_4f@64.png` (redrawn from the repaired static); `bld_kiln@64.png` (192×384, idle mouth dark with 3–6 ember clusters) + `bld_kiln_working_192x384_4f@64.png` (fire flicker + rising plume of 3–4 puffs in the top 64 px, 4 alpha steps); `bld_paper_mill@64.png` (192×256, bottom rows own stone/wood, no grass) + `bld_paper_mill_working_192x256_4f@64.png` (whole wheel turns, falling water moves, press descends, a paper sheet appears) — and B1 Sky-Bridge Shrine `bld_sky_shrine@64.png` (320×384, keep the validated 32 design; stairs and base on the bottom row, no empty rows) + `bld_sky_shrine_glow_320x384_4f@64.png` (1280×384 strip). Frame 0 of every loop = its static pixel for pixel. **Next (do not start yet):** batch 2 = the 7 P1 Requester NPC idle strips at 64 (`npc_<id>_idle_64x96_4f@64.png`, 2026-10-21 repair notes apply), requested after batch 1 is accepted; then B2–B4, C, D, F. The hold on standing objects is lifted; 32-px work continues. | delivered 2026-10-24 (`Idle-Grounds-Buildings-64-002.zip`), reviewed 2026-10-25 (row below) |
+| 2026-10-25 | **Rollout batch 1 reviewed in game:** `bld_workbench@64.png`, `bld_workbench_working_192x256_4f@64.png`, `bld_kiln@64.png`, `bld_kiln_working_192x384_4f@64.png`, `bld_paper_mill@64.png`, `bld_paper_mill_working_192x256_4f@64.png`, `bld_sky_shrine@64.png`, `bld_sky_shrine_glow_320x384_4f@64.png` | `incoming/buildings/Idle-Grounds-Buildings-64-002.zip` (292,176 B, SHA-256 `76279357…1e445` = ledger; SHA256SUMS of all 11 files verified) | **All 8 delivered and validated as files:** exact canvases (192×256, 192×384, 320×384; strips 768×256, 768×384, 1280×384, 4 frames), 100 % P01–P40, statics alpha 0/255 only, loop frame 0 = static pixel for pixel (0 px differ, all 4), new drawings (identical to a 2× of the 32 file: Workbench 15.4 %, Kiln 7.9 %, Paper Mill 11.9 %, Shrine 19.4 %). Noise / dark outer edge / dark 2nd ring: Workbench 4.2 / 100 / 96.6 %, Kiln 5.4 / 100 / 100 %, Paper Mill 8.4 / 96.6 / 75.4 %, Shrine 12.7 / 93.7 / 91.9 %. Width: 92.2 / 88.0 / 89.6 / 90.6 %. **Integrated** in the background copy (PPU 64 by the `@64` tag; `Integrate Incoming Art` 0 assignments changed on both runs, no new unwired key; the Shrine keys stay unwired until ADR 0007 Phase 2). **In game** (Center beside the 32-px Storehouse, Forge and Altar; zoom 15 / 20 / 30 / 60 / 120 cells; loops at 8 fps via `working:TYPE@center`; the Shrine as a temporary test placement): <br>• `bld_workbench@64.png` **accepted**: straight front; post feet on y255 at x20–42 and x148–170, post caps y44 at x32 and x160, ridge level at y58 from x48 to x144, no side face (bbox x7–183, centred). <br>• `bld_kiln@64.png` **accepted**: idle mouth dark (P01 971 + P02 151 px in x70–124, y315–352; pilot: 147 + 410) with 3 ember clusters (31, 40, 33 px). <br>• `bld_paper_mill@64.png` **accepted**: bottom 4 rows 0 grass/fern px of 680 (pilot: 90 of 391), stone plinth and wheel trough. It goes into the game **together with its repaired loop**: until then the pilot pair (static + loop of 64-001) stays pinned, so the mill does not change drawing when it starts working. <br>• `bld_sky_shrine@64.png` **validated** (base on y383 at x93–227, 90.6 % width, design of the validated 32 file kept: terrace, south stairs, moon-gate, cinnabar pillars, double teal eaves, qi swirl, two lanterns); looks right at the Altar's scale in a test placement; **in-game check waits on ADR 0007 Phase 2**. <br>• **Loops: repair (batch 1R in §3.9.6):** `bld_paper_mill_working_192x256_4f@64.png` **rejected** (a rotated block of roof/wheel/bamboo pasted over the hut in frames 1–3, 4,228–5,372 px per frame; moved to `docs/art/rejected/…_v2_REJECTED.png`); `bld_sky_shrine_glow_320x384_4f@64.png` **rejected** (ring over the roof eave instead of inside the gate, gold line across the stairs, alpha 80/150/220; moved to `docs/art/rejected/…_v1_REJECTED.png`); `bld_kiln_working_192x384_4f@64.png` **repair** (one flat flame block that only changes colour; smoke 3 flat discs, two grey dots in game) and `bld_workbench_working_192x256_4f@64.png` **repair** (saw does not move, only a 1-px white line, 49–52 px per frame): both kept in game as interim because they match the new statics. Evidence: Drive `feedback/2026-10-25_buildings64_002_review.png` (pilot vs batch 1 in game + loop crops) and `feedback/2026-10-25_buildings64_002_loops_REJECTED_frames.png`. **Batch 2 (NPC idles) stays "next"**: it is requested when batch 1R is accepted. | Workbench, Kiln, Paper Mill statics **accepted**; Shrine static **validated** (waits on Phase 2); Paper Mill loop + Shrine glow **rejected**; Kiln + Workbench loops **repair** (interim in game); **batch 1R requested** (§3.9.6) |

diff --git a/HANDOFF.md b/HANDOFF.md
@@ -5,7 +5,8 @@ commit, git fetch first) live in `CLAUDE.md` — not repeated here.
 
 ## ▶ NEXT SESSION: start here
 
-**Now (2026-10-24):** 64 px rollout approved; batch 1 (pilot fixes + Sky-Bridge Shrine @64, zip Idle-Grounds-Buildings-64-002) requested in ART-SPEC 3.9.6 and mirrored to Drive; waiting on the artist, then the in-game art reviewer checks it; batch 2 (7 P1 NPC idles @64) is requested after batch 1 is accepted. ADR 0007 Phase 2 (Shrine gameplay) still needs owner go-ahead.
+**Now (2026-10-25):** 64 px batch 1 (Idle-Grounds-Buildings-64-002) reviewed in game (branch bg/b64one): Workbench, Kiln, Paper Mill statics accepted, Sky-Bridge Shrine @64 validated (in-game check waits on ADR 0007 Phase 2); all 4 loops need a redo -> batch 1R (loops only, zip Idle-Grounds-Buildings-64-003) requested in ART-SPEC 3.9.6 + Drive. Paper Mill stays on the pinned pilot pair until its loop is accepted: when 64-003 arrives, restore `bld_paper_mill@64.png` from 64-002 (SHA-256 21130be9...f0bccb010) together with the new loop (pull.js skips it because the log already holds that hash). Batch 2 (NPC idles) is requested after 1R is accepted.
+**Earlier (2026-10-24):** 64 px rollout approved; batch 1 (pilot fixes + Sky-Bridge Shrine @64, zip Idle-Grounds-Buildings-64-002) requested in ART-SPEC 3.9.6 and mirrored to Drive; waiting on the artist, then the in-game art reviewer checks it; batch 2 (7 P1 NPC idles @64) is requested after batch 1 is accepted. ADR 0007 Phase 2 (Shrine gameplay) still needs owner go-ahead.
 **Now (2026-10-22):** Text font setting built on branch `bg/font` (Menu > Settings > Text font: 6 options, default Pixelify titles + Jersey 10, live, PlayerPrefs `ig_text_font`; orchestrator merges, then UI QA re-checks the batch B screens per font); PPU 64 pilot request (Paper Mill, Kiln, Workbench) going to the artist via ART-SPEC 3.9. ADR 0007 Phase 2 (Shrine) still needs owner go-ahead; 74 validated Phase 2 art files wait for it.
 
 **Art intake 2026-10-21 (branch bg/art38):** 37 Drive zips reviewed (ART-SPEC Delivery log row 2026-10-21). In Play: sidewall v3 x7 and Fishing macro v4 accepted (CoastCurves side face 11 -> 18 px; Fishing macro now softened like the other biomes); `cliffwall_round` x7 rejected (flat stripes), straight walls stay pinned. 69 more files rejected on file review (NPC idles, sky path pieces, 19 working loops, 4 floating-base buildings, new-island blob/fill/wall/side/macro, lotus water, 6 portraits) and moved to `docs/art/rejected/`; 74 validated files sit unwired in Art/Incoming until ADR 0007 Phase 2. Next: artist redo; ArtIntake should prune stale GameDatabase entries when art is removed.
@@ -153,6 +154,8 @@ the active scene after MCP editor work.
   with the same names/keys.
 
 ## Last session summary
+
+- 2026-10-25: in-game art reviewer (bg/b64one): Buildings-64-002 (8 files, SHA256SUMS ok) pulled + integrated (Integrate Incoming Art 0 assignment changes on both runs; Shrine keys unwired until Phase 2). File checks: exact canvases, 100 % P01-P40, frame 0 = static on all 4 loops, not upscales; noise Workbench 4.2 / Kiln 5.4 / Paper Mill 8.4 / Shrine 12.7 %. In game (zoom 15-120, loops via `working:`; Shrine via a temporary placed sprite, not committed): Workbench straight front, Kiln dark idle mouth, Paper Mill stone base -> accepted; Shrine validated. Loops: Paper Mill (pasted rotated block) and Shrine glow (ring on the roof, line on the stairs) rejected -> `docs/art/rejected/`; Kiln (flat flame) and Workbench (saw does not move) repair, interim in game. Paper Mill pilot pair re-pinned. ART-SPEC 3.9.6 statuses + batch 1R + Delivery log + Changelog v6.2; Drive mirror content-equal; evidence Drive `feedback/2026-10-25_buildings64_002_review.png` + `..._loops_REJECTED_frames.png` (repo `docs/art/reference/buildings64-002-review.png`). Batch 2 not requested yet.
 
 - 2026-10-24: art director: ART-SPEC 3.9.6 rewritten for the owner sign-off (hold lifted). Batch 1 requested (8 files, one zip Idle-Grounds-Buildings-64-002.zip): Workbench straight front + loop, Kiln dark idle mouth + 3-4 puff smoke plume, Paper Mill stone/wood base + full wheel/water/sheet loop, bld_sky_shrine@64 (320x384, base on bottom row) + glow 320x384 4f. Batch 2 (7 P1 NPC idle strips @64) next; then B2-B4, C, D, F. Delivery log + Changelog rows added; Drive ART-SPEC.md mirrored (byte-equal).
 - 2026-10-24: owner signed off the 64 px pilot (pilot64_signoff = rollout; docs/Design/owner-picks-2026-10-24.json). First batch = pilot fixes + B1 Shrine; then NPCs, buildings, nodes, trees/props, creatures.

diff --git a/docs/Design/PLAN.md b/docs/Design/PLAN.md
@@ -1,6 +1,6 @@
 # Idle Grounds: plan
 
-Updated 2026-10-24 21:17. Source of truth: docs/Design/plan.json, edited with tools/plan/set-task.cjs. Do not edit PLAN.md by hand: edit plan.json and run `node tools/plan/build-plan.cjs`.
+Updated 2026-10-24 22:17. Source of truth: docs/Design/plan.json, edited with tools/plan/set-task.cjs. Do not edit PLAN.md by hand: edit plan.json and run `node tools/plan/build-plan.cjs`.
 
 **26 of 46 tasks done**, 4 in progress, 3 to do, 3 blocked, 10 waiting.
 
@@ -8,7 +8,7 @@ Updated 2026-10-24 21:17. Source of truth: docs/Design/plan.json, edited with to
 
 - **M3** South cliff walls, side faces, grass lips: art loop: integrating deliveries as they arrive
 - **M3** Designer team visual pass: find and fix what makes the game look off: Batch A done; waiting for your answers (batch B) and sending the art request (batch C)
-- **M3** Building art redo: reference sheet for all 26 buildings: Art director writing the first 64 px rollout batch into ART-SPEC 3.9.6
+- **M3** Building art redo: reference sheet for all 26 buildings: Batch 1 (64-002) reviewed 2026-10-25: 3 statics accepted, Shrine validated, 4 loops in batch 1R (requested); next: review 64-003, then request batch 2 (NPC idles)
 - **M7** Owner tests APK round 2: APK round 2 on Drive
 
 | # | Milestone | Gate | Status | Tasks done |
